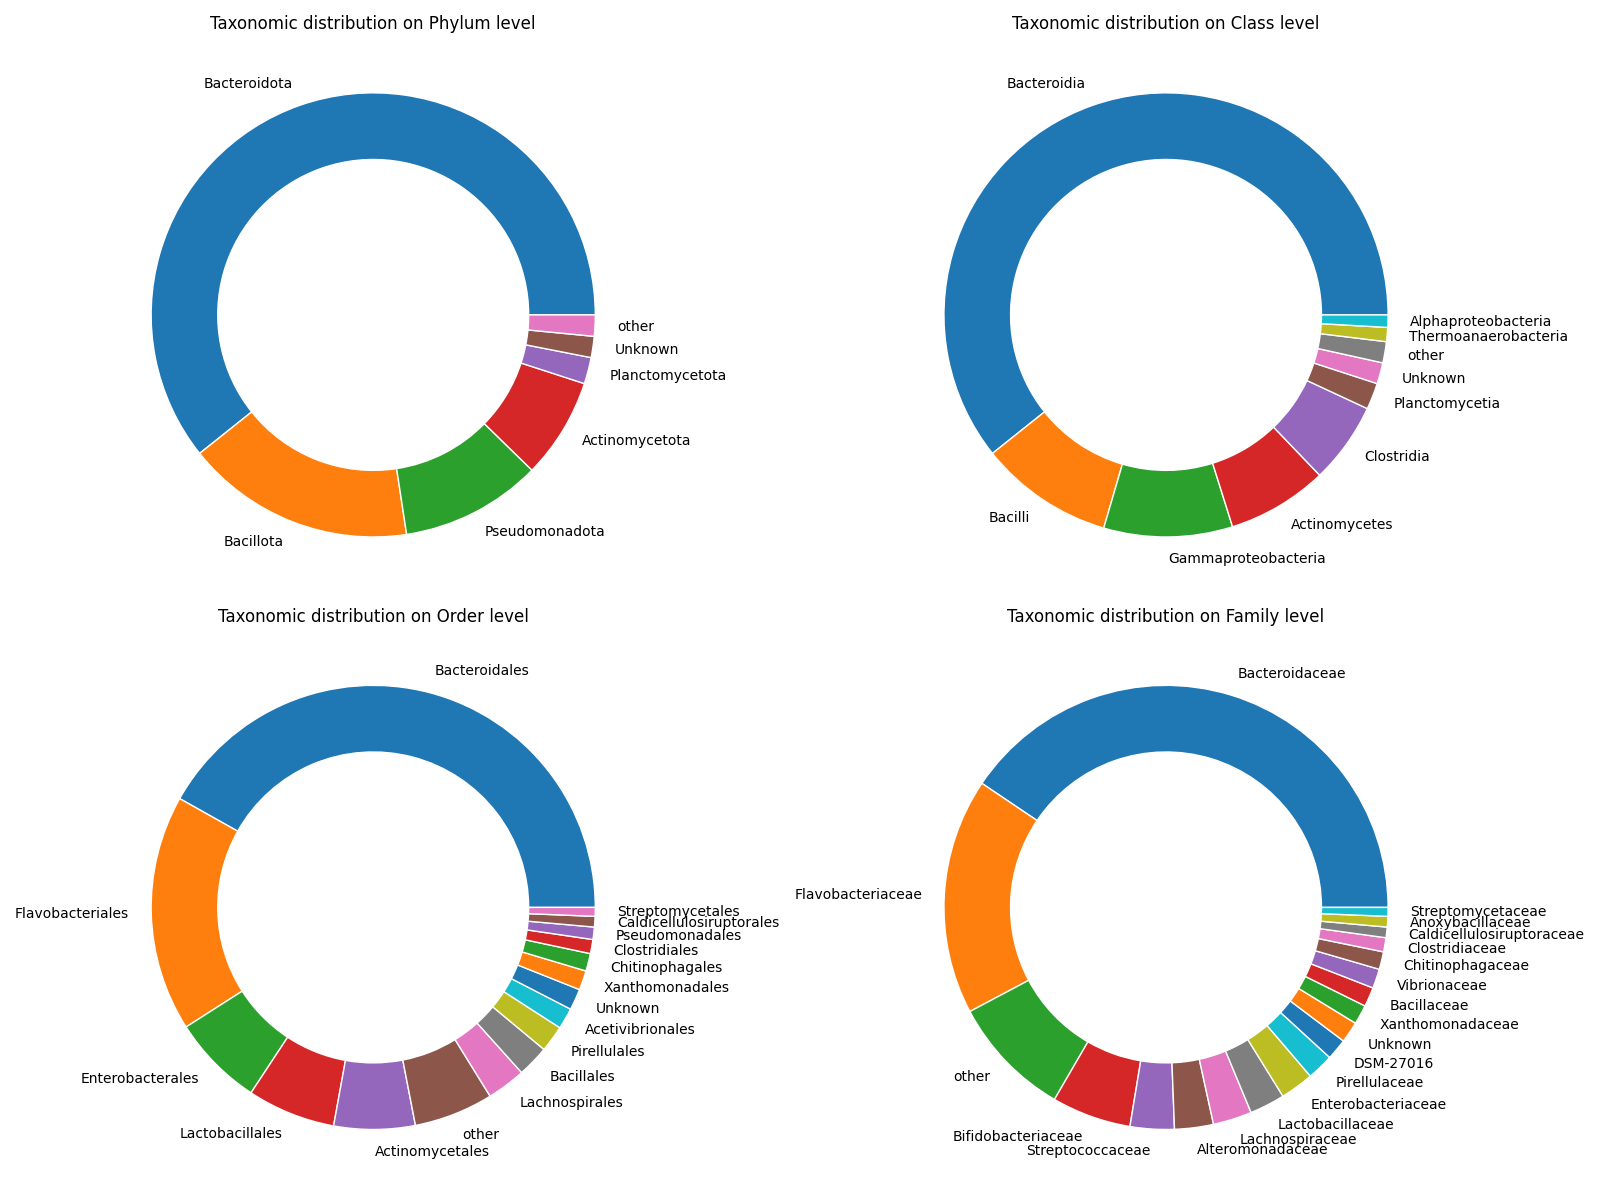
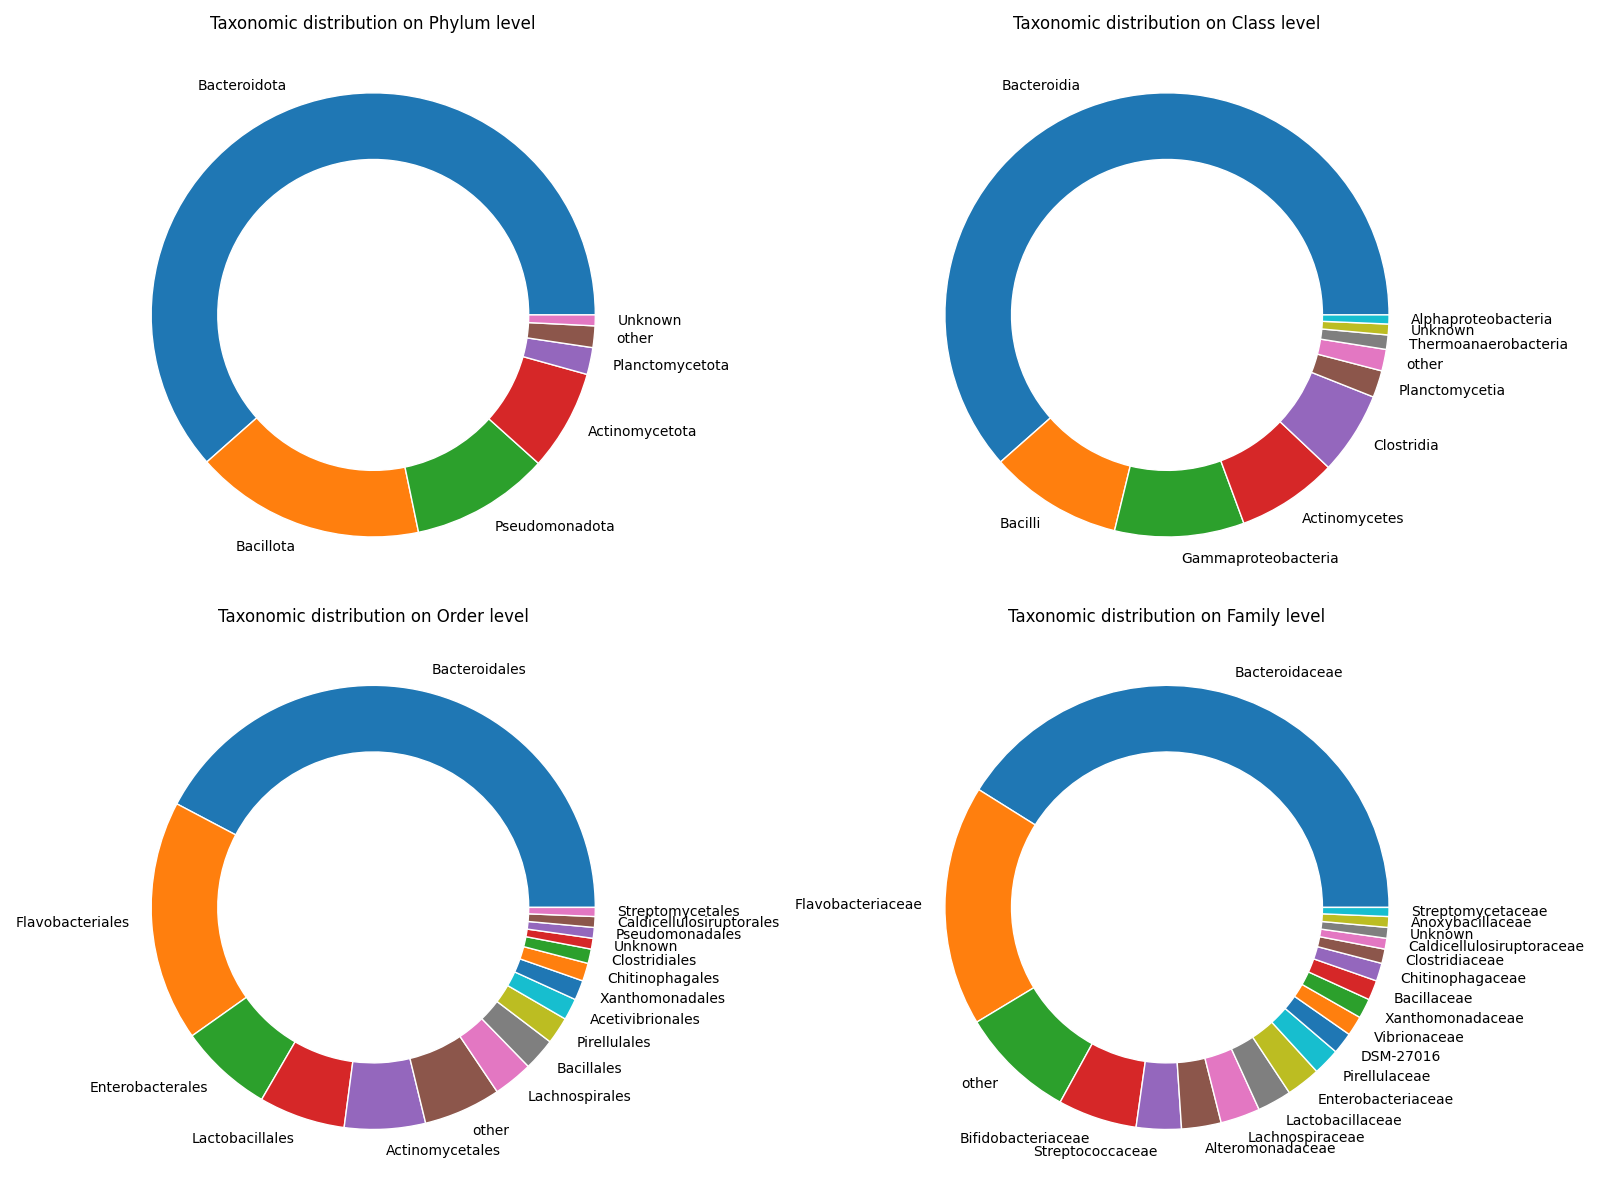
change filtering before visualization

diff --git a/src/scripts/taxonomic_annotation.py b/src/scripts/taxonomic_annotation.py
@@ -1,7 +1,6 @@
 from pathlib import Path
 import polars
 
-
 def separate_classification(classification: polars.Expr, index) -> polars.Expr:
     return classification.str.split(by=";").list.get(index, null_on_oob=True).str.split(by="__").list.get(1, null_on_oob=True)
 
@@ -22,8 +21,8 @@ def main():
         .rename({'user_genome': 'sequence_id'})
         .drop("classification")
     )
-    null_count = taxonomic_annotation.select(polars.col("domain").is_null()).to_series().sum()
-    print(f"There are {null_count}/{taxonomic_annotation.shape[0]} genomes that did not get annotated.")
+    null_count = taxonomic_annotation.filter(polars.col("domain").is_null()).select("sequence_id").to_series()
+    print(f"There are {null_count.shape[0]}/{taxonomic_annotation.shape[0]} genomes that did not get annotated.")
     taxonomic_annotation.write_csv("src/data/results/taxonomic_annotation.tsv", separator="\t")
 
     # merge into clusters table

diff --git a/src/scripts/train_test_split.py b/src/scripts/train_test_split.py
@@ -1,3 +1,5 @@
+import polars
+
 def filter_clusters_table():
     clusters_table = polars.read_csv("src/data/results/combined_clusters_blasted_gtdb.tsv", separator='\t', infer_schema_length=600)
     clusters_table = (
@@ -51,6 +53,11 @@ def filter_clusters_table():
         .sort("cluster_id")
         .select(original_cols)
         .filter(polars.col("percentage_in_puls")<50)
+        .filter(polars.col("length")>50000)
     )
     clusters_table_filtered.write_csv("src/data/results/combined_clusters_blasted_gtdb_filtered.tsv", separator='\t')
     return clusters_table_filtered
+
+
+if __name__ == "__main__":
+    filter_clusters_table()

diff --git a/src/scripts/plots.py b/src/scripts/plots.py
@@ -34,7 +34,7 @@ def get_taxonomic_counts(clusters_table_filtered, rank="phylum", cutoff=10):
     )
 
 def plot_taxonomic_distributions(clusters_table_filtered):
-    phylum_counts = get_taxonomic_counts(clusters_table_filtered, rank="phylum", cutoff=10)
+    phylum_counts = get_taxonomic_counts(clusters_table_filtered, rank="phylum", cutoff=5)
     class_counts = get_taxonomic_counts(clusters_table_filtered, rank="class", cutoff=5)
     order_counts = get_taxonomic_counts(clusters_table_filtered, rank="order", cutoff=5)
     family_counts = get_taxonomic_counts(clusters_table_filtered, rank="family", cutoff=5)
